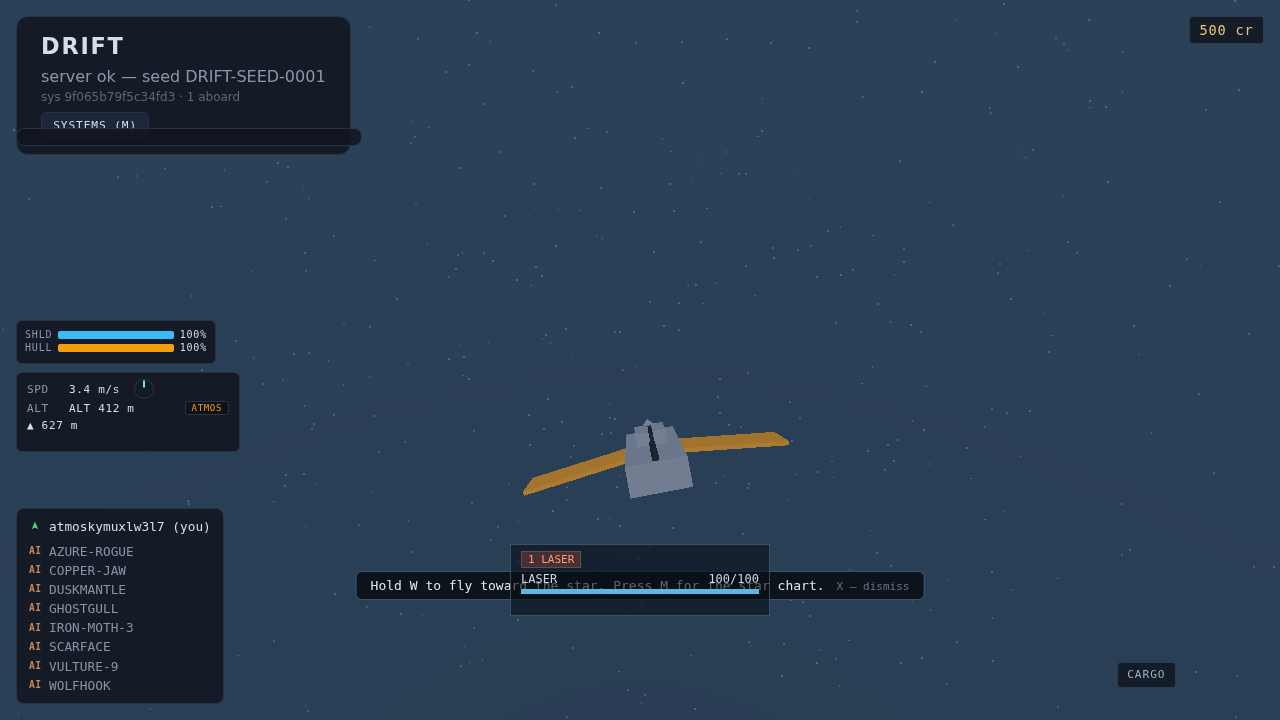
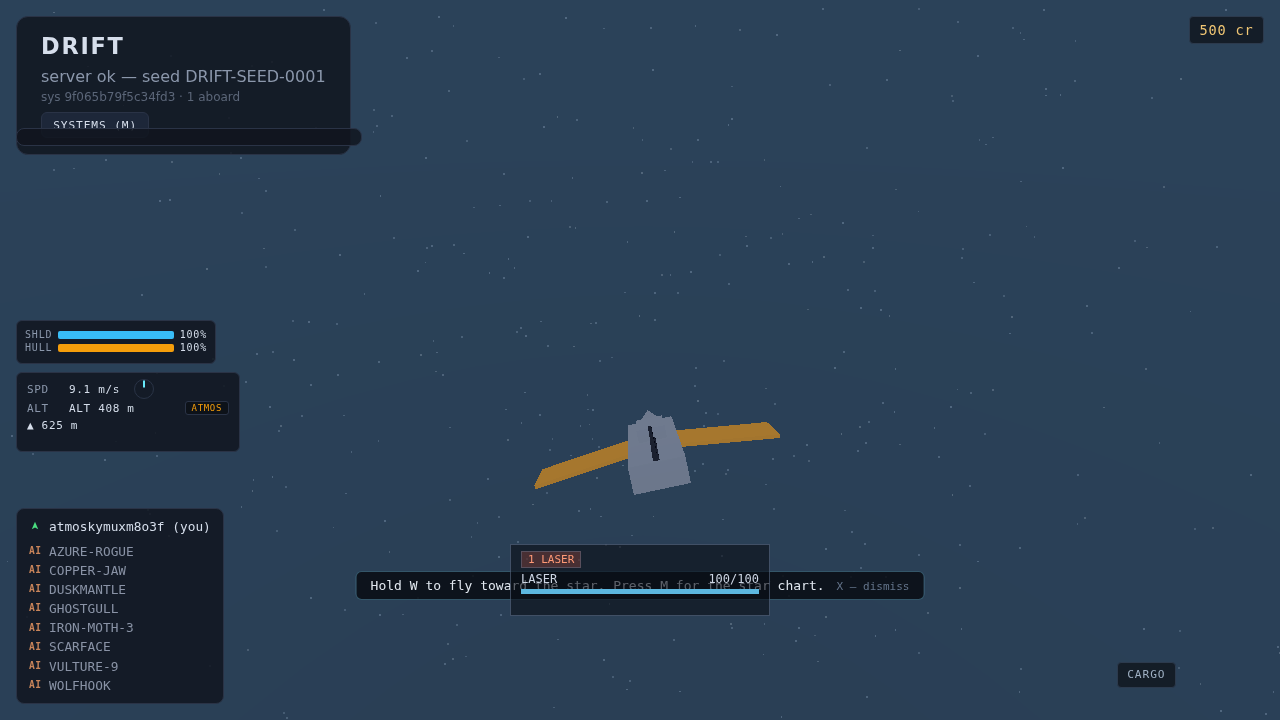
fix(TASK-76): camera far plane now provably contains the whole atmosphere dome (CAMERA_FAR 4000 u)
Closes TASK-76 (split: 76.1 e2e stabilization, 76.2 this close-out). The
1000 u far plane clipped the 1010 u atmosphere dome's far wall (up to
2020 u from interior points), so the black clear showed through where
haze faded the skybox out. Fix (135fd31): named CAMERA_FAR = 4000 u with
the invariant comment, unit-guarded in world-manager.test.ts (10/10).

Proof: pre-fix central top band mean 0.0 (original repro, 2 runs) and
10.9 <= 20 (TASK-76.1 re-confirmation, deterministic aim); post-fix
65.6/65.2/65.4 (76.1 3/3) + 65.4 this run (4/4 overall), bright 83328.
Screenshot TASK-76-1.png: hazy blue sky, no dark disk.

Full verification matrix (this run): tsc --noEmit clean; full unit suite
182 files / 1647 passed / 1 skipped; e2e set 6/6 in 1.3 min
(atmosphere-sky 38.0s, atmosphere-view 6.1s, atmosphere 2.0s, landing
5.6s, self-ship 5.5s, transitions 7.0s); bench:render PASS — 0 frames >
50 ms in all 6 runs, draws 85/87, materials 71, triangles 85,864, p95
spread 12.1 %; record refreshed to .ralph/bench/TASK-58.json.
eslint --fix + prettier on touched files (one cosmetic quote fix in
world-manager.test.ts).

Close-out: parent spec restored to .ralph/tasks/TASK-76.json with all
steps pass: true; board TASK-76.2 passes: true (no parent board entry,
TASK-48.4 precedent); handoff already deleted in 9b9dc85. Pre-existing
dirty files (ralph.config.json, old screenshots) excluded.

Changed region(s): [[0.4062, 0.5806, 0.625, 0.7028], [0.5, 0.6722, 0.5312, 0.7028], [0.0938, 0.7028, 0.125, 0.7333]]

diff --git a/app/src/client/world/world-manager.test.ts b/app/src/client/world/world-manager.test.ts
@@ -140,7 +140,7 @@ describe('pad ring markers (TASK-29.3)', () => {
  * the 420 u sky radius the skybox is centred on (TASK-75).
  */
 describe('CAMERA_FAR (TASK-76) contains the whole atmosphere dome', () => {
-  it('reaches the dome\'s longest chord (2 × radius), so the far wall is never clipped', () => {
+  it("reaches the dome's longest chord (2 × radius), so the far wall is never clipped", () => {
     const domeDiameter = 2 * ATMOSPHERE_BOUNDARY_M * DOME_RADIUS_FACTOR;
     expect(CAMERA_FAR).toBeGreaterThanOrEqual(domeDiameter);
   });

diff --git a/.ralph/logs/LOG.md b/.ralph/logs/LOG.md
@@ -3,8 +3,11 @@
 `Current Status`
 =================
 **Last Updated:** 2026-10-07
-**Tasks Completed:** 91
-**Current Task:** none — TASK-76.1 closed (atmosphere-sky e2e stabilized); TASK-76.2 next
+**Tasks Completed:** 92
+**Current Task:** none — TASK-76 closed (atmosphere blackout fix fully verified); TASK-80 next
+
+### 2026-10-07 — TASK-76.2: Verify + close out TASK-76 — full matrix green, TASK-76 complete
+Closes TASK-76 (atmosphere blackout: the TASK-28.1 crossfade fades the skybox + stars OUT inside an atmosphere — opacity = 1 − haze — and relies on the 1010 u dome to paint the sky, but the camera's 1000 u far plane clipped the dome's far wall, up to 2 × 1010 = 2020 u from any interior point, so the black clear color showed through — the upper half of the view went black over the pads). **The fix** (`135fd31`, parent commit): named `CAMERA_FAR = 4000` in `WorldManager.ts` with the invariant comment (≥ 2 × ATMOSPHERE_BOUNDARY_M × DOME_RADIUS_FACTOR = 2020 u longest dome chord, and > 420 u sky radius; near 0.1 kept, no logDepthBuffer — verified `CameraRig` only sets fov, never `far`), unit-guarded in `world-manager.test.ts` (10/10). **PROOF values:** pre-fix FAIL confirmed TWICE — original repro (old aim spec, 2 runs): central top band mean **0.0**, bright 0; TASK-76.1 re-confirmation with the final deterministic aim (per DECIDE option A: pitch-down aim at dome centre, pre-fix threshold 20 — the old ≤5 proved unreachable at this seed: 28.6–43.2 pre-fix at level-aim attitudes): aim converged (−2.0°/−0.9°) and central top band mean = **10.9** ≤ 20 (log `.ralph/logs/t761/prefix-final.log`). Post-fix **4/4** post-fix passes recorded overall: TASK-76.1's 3/3 (65.6/65.2/65.4) + this iteration's regression-set run (65.4, bright 83328) — all ≫ 20. Screenshot `.ralph/screenshots/TASK-76-1.png` LOOKED AT: hazy blue sky across the full top band, ship + HUD, no dark disk. **Full verification matrix (all this iteration, sequential to avoid the load-flake family):** `npx tsc --noEmit` CLEAN; full `npm run test` green — **182 files, 1647 passed / 1 skipped** (~126 s); e2e regression set 6/6 in 1.3 min (single worker, retries 0): atmosphere-sky 38.0 s / atmosphere-view 6.1 s / atmosphere 2.0 s / landing 5.6 s / self-ship 5.5 s / transitions 7.0 s; `npm run bench:render` **PASS** (larger far plane did NOT move any gate): baseline p95 1.628 ms / max 4.389 ms, draws 120p95/122max; five tuned runs p95 1.749–1.970 ms, **0 frames > 50 ms in all 6 runs**, draws 85p95/87max (< 120), materials 71 (< 80), triangles 85,864 (< 500 k), p95 spread **12.1 %** (< 20 %) — record refreshed to `.ralph/bench/TASK-58.json` (2026-10-07T04:48Z, `pass: true`). **Lint/format:** eslint --fix + prettier on the three touched files — one cosmetic quote-style fix in `world-manager.test.ts`, tsc re-clean after. **Close-out:** parent spec restored to `.ralph/tasks/TASK-76.json` with all 4 steps `pass: true` (split dir untouched, TASK-48.4 precedent — no parent board entry, only 76.1/76.2, so the board's TASK-76.2 `passes: true` closes TASK-76); the TASK-76 handoff was already deleted by TASK-76.1's close-out commit (9b9dc85).
 
 ### 2026-10-07 — TASK-76.1: Stabilize the atmosphere-sky e2e — deterministic aim, pre-fix FAIL 10.9, 3/3 post-fix PASS (complete)
 Split from TASK-76 (blackout fix: `CAMERA_FAR = 4000`, already committed + unit-tested). Per DECIDE (option A): the nose now aims at the DOME CENTRE (pitch-down) and the pre-fix band threshold is 20 (the old ≤5 was unreachable at this seed — measured 28.6-43.2 pre-fix at any level-aim attitude). **Step 1 — deterministic aim** (`app/tests/e2e/atmosphere-sky.spec.ts`): closed-loop two-axis aim against the world-pinned dome centre (`{x, 0, z}` of the planet anchor), hovers on `space` the whole time (VTOL lift is vertical, heading-independent), one axis pressed at a time (a combined press rotates about both local axes at √2× rate), proportional press = 80 % of |err| at the calibrated rate clamped to [80, 450] ms, 300 ms drains (the server holds the last input frame until the next tick), hard asserts on BOTH |yawErr| < 0.12 AND |pitchErr| < 0.12 rad, 18 s wall deadline, re-pin teleport after the aim. **The flake fix (the last attempt's 3/3 fails at 8.6/9.1/9.0°):** the 20 Hz server picks key events up ≤ 50 ms each end, so a press of `ms` actually rotates rate × (ms + δ), δ ∈ [0, ~100 ms] — timing presses against the raw 0.8 rad/s overshot by the constant rate×δ and limit-cycled at ~±9°. Each axis's EFFECTIVE rate is now calibrated from its existing 120 ms sign-calibration press (`|Δ| / 0.12`, fallback 0.8), absorbing δ into the number the proportional formula uses. **Step 2 — pre-fix FAIL (final form, far plane temporarily 1000):** aim CONVERGED (heading −2.0°, pitch −0.9°) and the assertion FAILED: central top band mean = **10.9** ≤ 20 (clipped cap reads ~11; log `.ralph/logs/t761/prefix-final.log`). WorldManager.ts restored exactly (`git diff` empty). **Step 3 — 3× post-fix PASS (CAMERA_FAR = 4000, retries 0):** run 1 aim 0.9°/−1.1° band **65.6**, run 2 −2.4°/0.1° band **65.2**, run 3 −0.0°/−0.5° band **65.4** — every run bright=83328, regime=atmosphere (logs `postfix-final-run{1,2,3}.log`). **Screenshot** `.ralph/screenshots/TASK-76-1.png` verified uniform hazy blue, no dark disk (topBand mean 65.1 across all 64 rows, bright 82944/82944). **Step 4:** `tsc --noEmit` clean; `world-manager.test.ts` 10/10 green. Handoff + `.ralph/measure-png.mjs` deleted. TASK-76.2 remains: full verification matrix + bench:render gates + final TASK-76 LOG entry.
